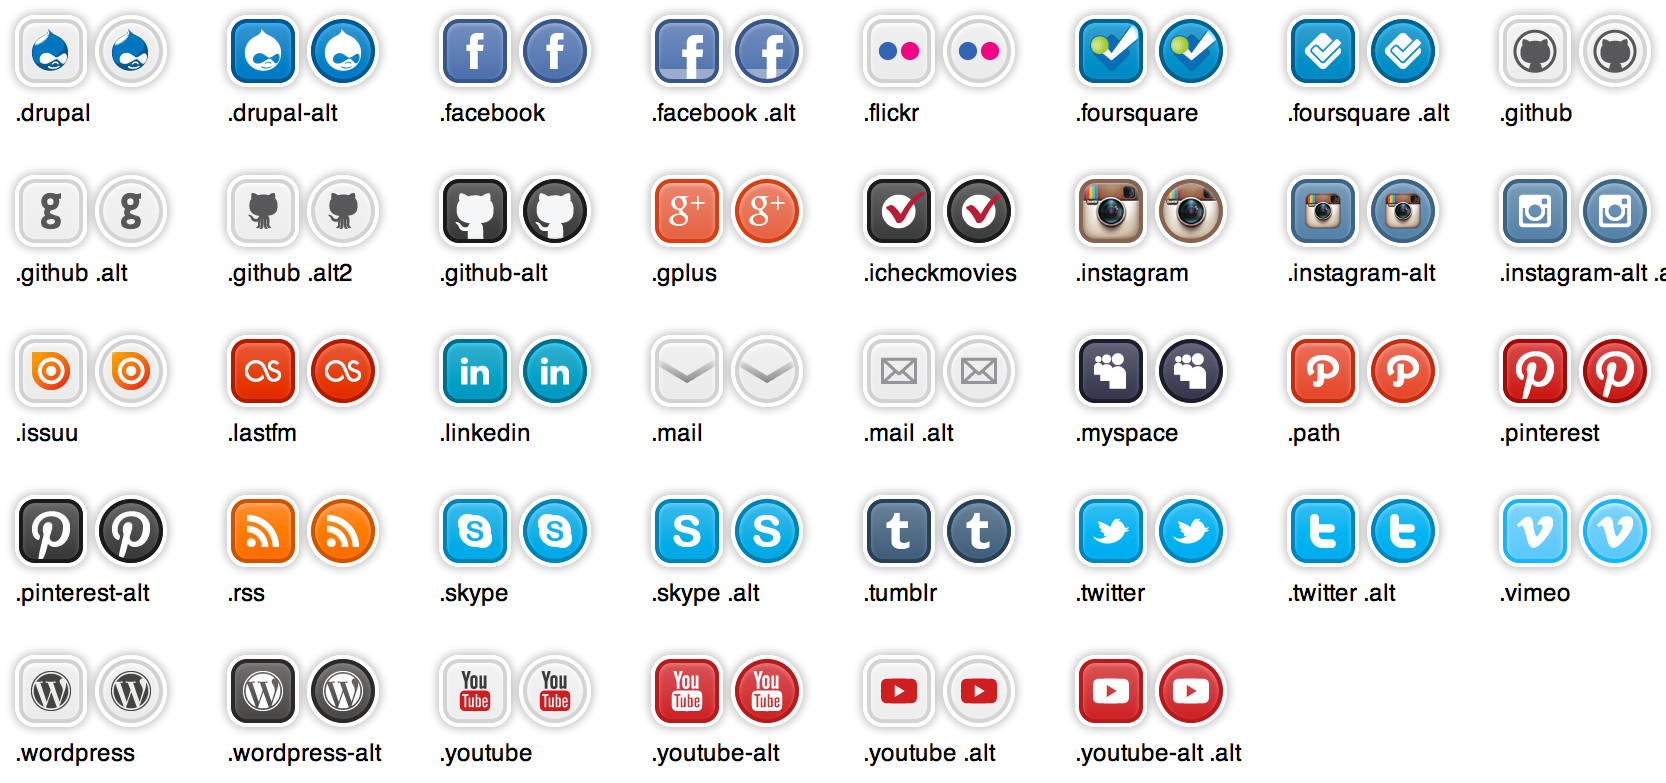
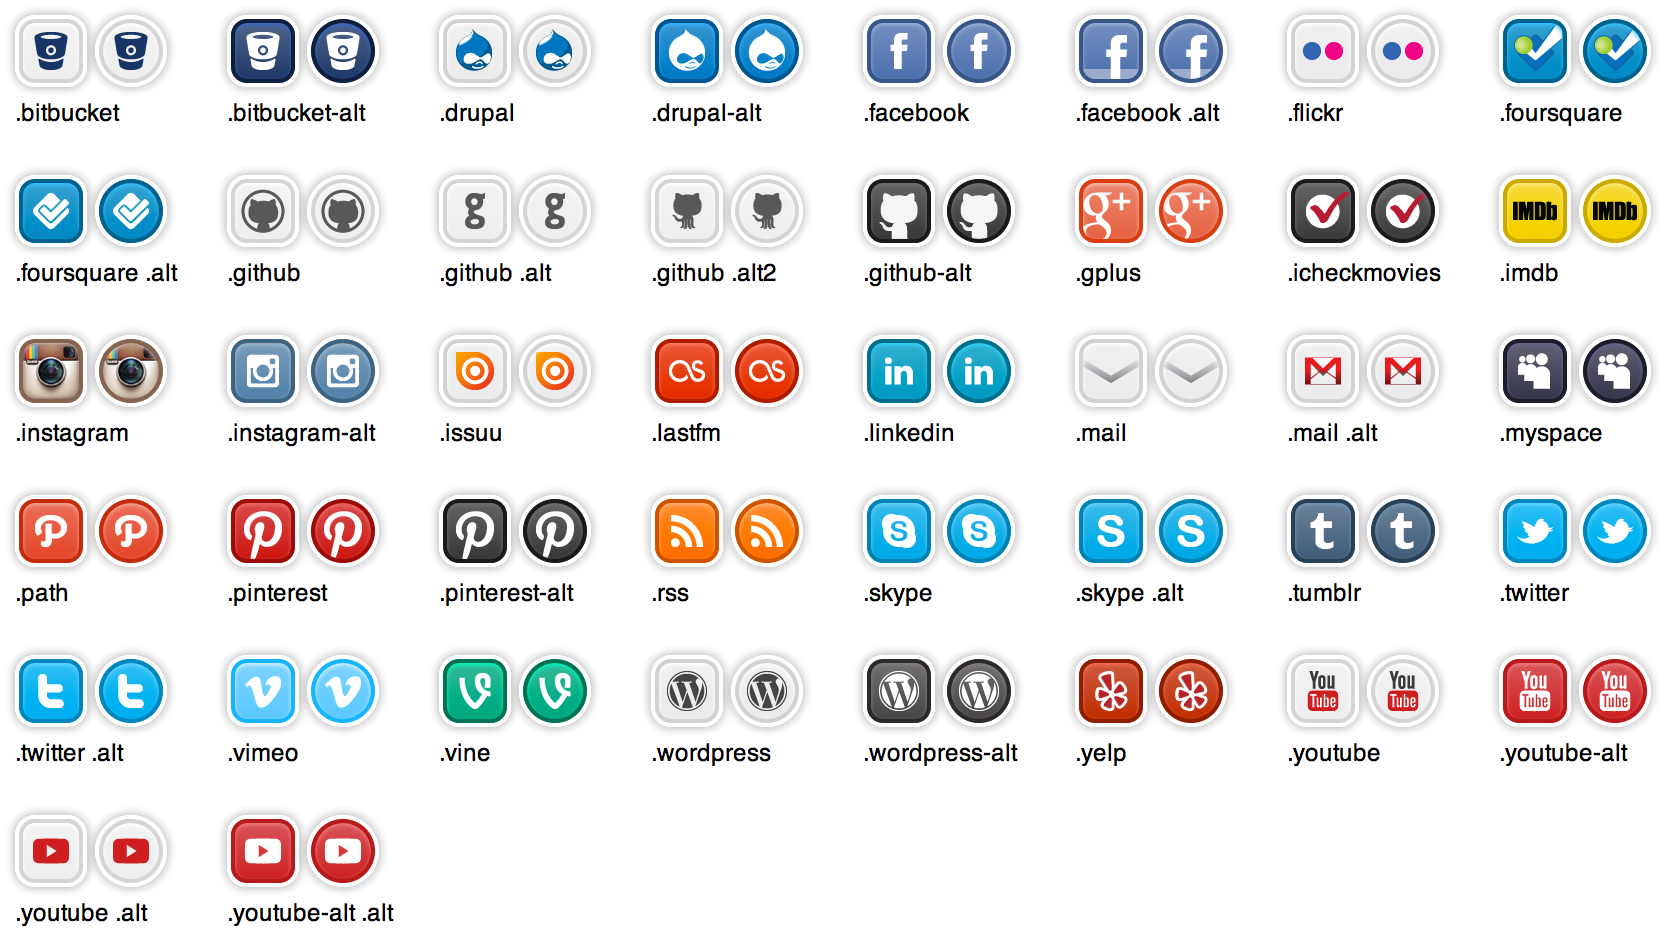
Updated preview image and readme to v.1.6.0

diff --git a/README.md b/README.md
@@ -69,18 +69,20 @@ Don't want fully rounded buttons? Add the class `rounded` for a button with just
 
 **Lists of available classes**
 
+- `bitbucket` | `bitbucket-alt` **!new**
 - `drupal` | `drupal-alt`
 - `facebook` [`alt`]
 - `flickr`
 - `foursquare` [`alt`]
-- `github` [`alt` | `alt2`] | `github-alt` **!new**
-- `gplus`
+- `github` [`alt` | `alt2`] | `github-alt`
+- `gplus` **!updated**
 - `icheckmovies`
-- `instagram` | `instagram-alt` [`alt`]
+- `imdb` **!new**
+- `instagram` | `instagram-alt`
 - `issuu`
 - `lastfm`
 - `linkedin`
-- `mail` [`alt`]
+- `mail` [`alt` **!updated**]
 - `myspace`
 - `path`
 - `pinterest` | `pinterest-alt`
@@ -89,16 +91,16 @@ Don't want fully rounded buttons? Add the class `rounded` for a button with just
 - `tumblr`
 - `twitter` [`alt`]
 - `vimeo`
+- `vine` **!new**
 - `wordpress` | `wordpress-alt`
-- `youtube` [`alt`] | `youtube-alt` [`alt` **!new**]
+- `yelp` **!new**
+- `youtube` [`alt`] | `youtube-alt` [`alt`]
 
 ## To-Do List ##
 
 This list shows some of the features/bugs I'm planning to work on for feature releases. Missing something? Leave a comment in [Issue #7: More buttons?](https://github.com/timhuisman/round-social-media-buttons/issues/7) or fork and add it yourself (please let me know if you do).
 
-- [1.x.x] Add `bitbucket` button.
-- [1.x.x] Add `yelp` button.
-- [1.x.x] Add `vine` button.
+- [1.x.x] Add music service buttons: `spotify` and `soundcloud`.
 - [1.x.x] Add browser buttons: `chrome`, `firefox`, `ie`, `opera` and `safari`.
 - [2.x.x] Add a SASS Compass version as to make use of the sprite generate feature: this can result in more efficient sprite images if not using all the buttons.
 - [2.0.0] Add three new button styles: `no-border` (without the two outer borders) and `flat` (without gradients and inner-shadows) and `square` (without rounded corners).
@@ -107,6 +109,14 @@ This list shows some of the features/bugs I'm planning to work on for feature re
 ## Changelog ##
 
 **[!]** = Can cause issues when updating from older version
+
+**v.1.6.0**
+
+- Added five new buttons: `bitbucket` (blue logo on white background), `bitbucket-alt` (white logo on blue background), `imdb`, `vine` and `yelp`.
+- **[!]** Changed icon of `gplus` button: larger icon.
+- **[!]** Changed icon of `mail alt` button: replaced with the Gmail favicon.
+- **[!]** Removed `instagram-alt`: the small Instagram icon on a blue background.
+- **[!]** Renamed `instagram-alt alt` to `instagram-alt`.
 
 **v.1.5.3**
 
